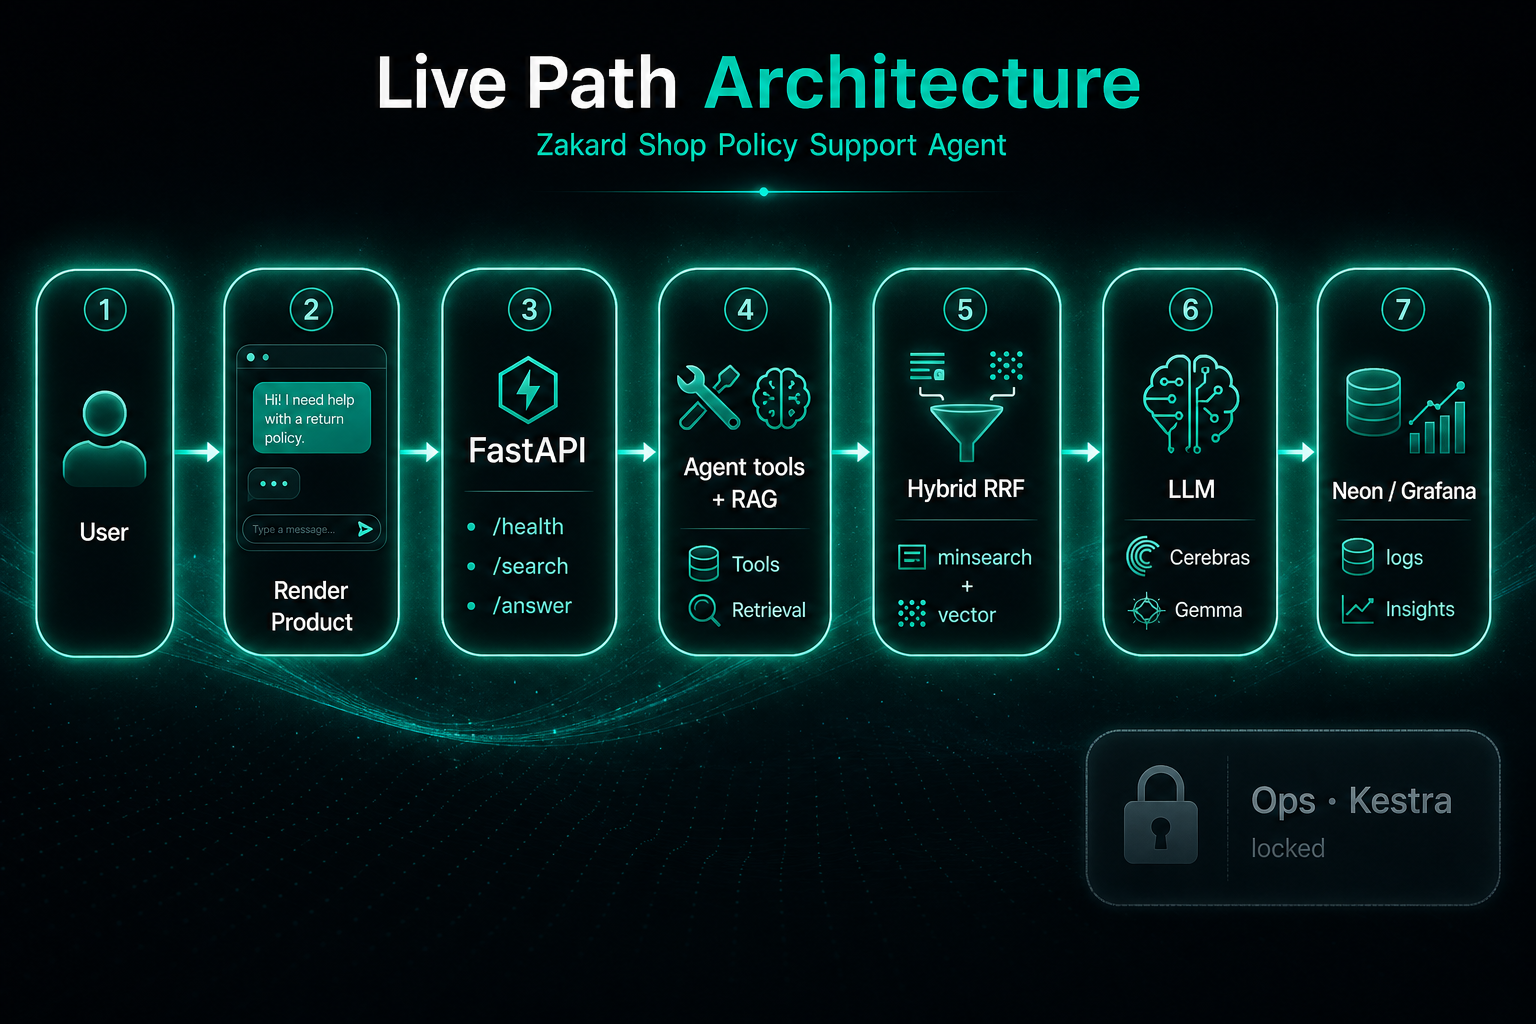
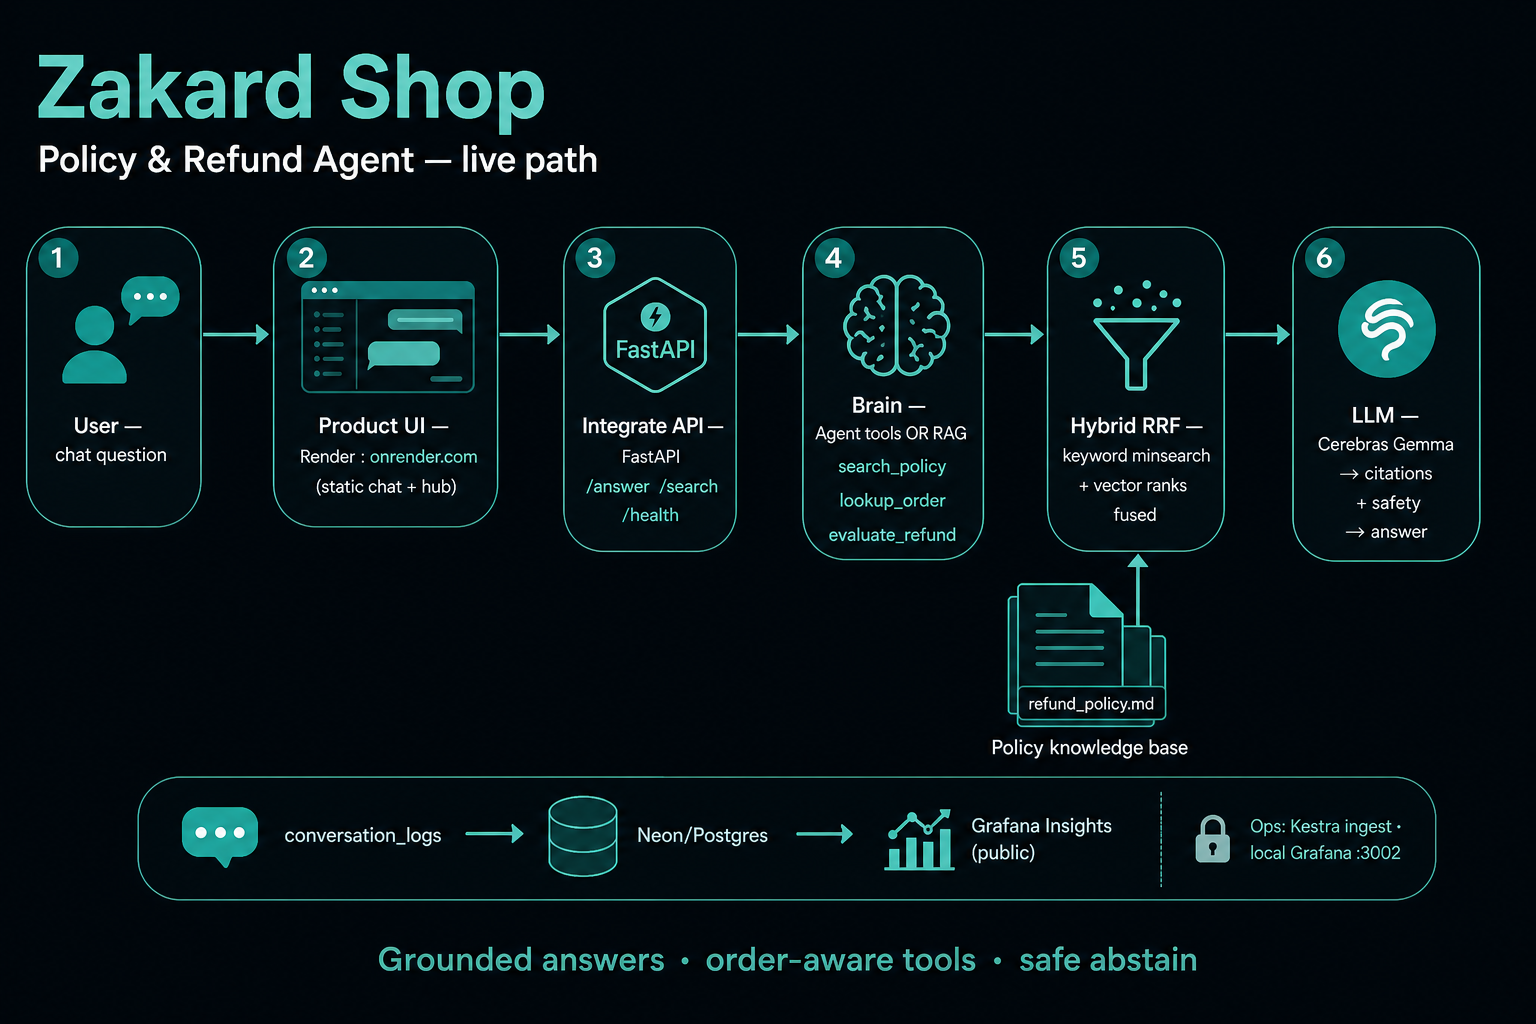
Restyle architecture infographic: keep v1 layout on dark background.

diff --git a/docs/images/README.md b/docs/images/README.md
@@ -12,7 +12,7 @@ For README and portfolio use.
 
 | File | Description |
 |------|-------------|
-| `architecture/live-path-infographic-v1.png` | Public live-path infographic (Product → API → Agent/RAG → Hybrid RRF → LLM → Neon/Grafana). README Mermaid graph kept as the code-oriented view. |
+| `architecture/live-path-infographic-v1.png` | Public live-path infographic — original v1 stage layout on dark charcoal (#0b0f14) with soft teal accents (Product → API → Agent/RAG → Hybrid RRF → LLM → Neon/Grafana). README Mermaid graph kept as the code-oriented view. |
 
 ## Canonical (README)
 
